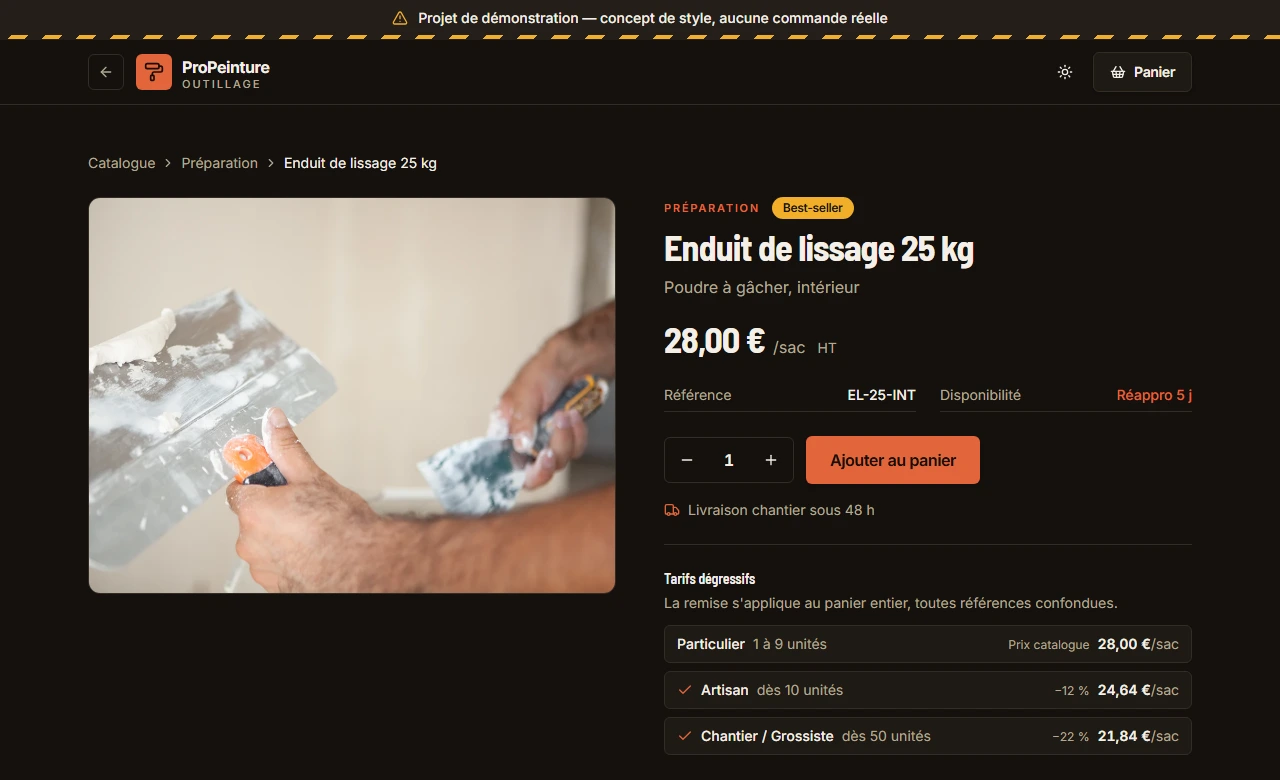
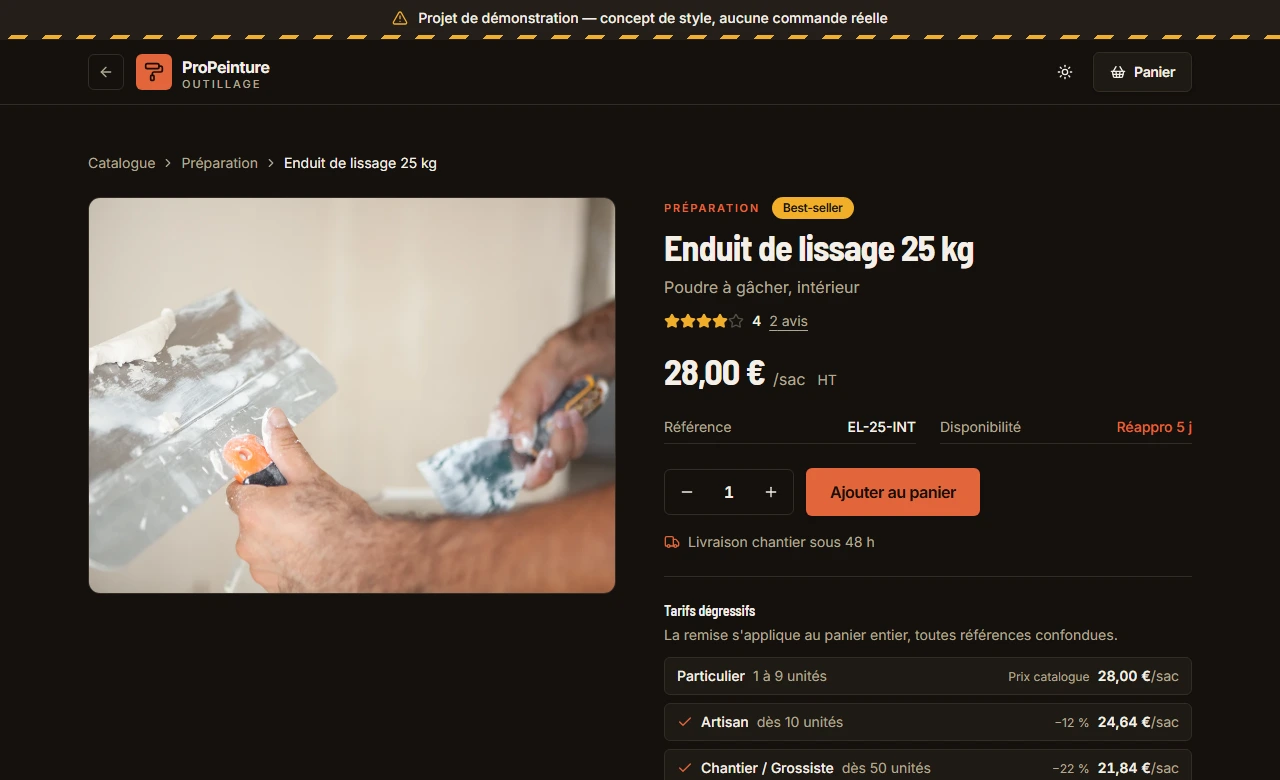
Ajoute des avis sur la fiche produit
Note moyenne sous le titre, renvoyant à une section en bas de page qui liste
les avis : auteur, métier, note, date et texte. Quatre des six références en
ont ; les deux autres affichent l'absence d'avis, cas qu'une vitrine réelle
rencontre en permanence.

Les avis sont fictifs comme le reste de la boutique, et la section le dit
explicitement plutôt que de s'appuyer sur le seul bandeau de démonstration :
un avis inventé se prend plus facilement au sérieux qu'un prix inventé.

La moyenne est calculée à partir des avis plutôt que saisie, donc elle ne peut
pas les contredire.

Côté accessibilité, les étoiles sont décoratives et la note portée par un texte
lisible — « 4,7 sur 5 » plutôt que cinq icônes énumérées. La première version
l'annonçait deux fois là où la valeur est déjà écrite à côté ; le composant
accepte désormais de museler ce texte.

diff --git a/src/data/avis.ts b/src/data/avis.ts
@@ -1,0 +1,124 @@
+/**
+ * Avis de démonstration. Ils sont inventés, comme le reste du catalogue et la
+ * société elle-même — la section qui les affiche le dit explicitement, pour
+ * qu'on ne les prenne pas pour de vrais retours clients.
+ */
+export type Avis = {
+  id: string
+  /** Identifiant du produit noté, voir `data/produits.ts`. */
+  produit: string
+  auteur: string
+  metier: string
+  /** De 1 à 5. */
+  note: number
+  /** Format ISO, affiché en toutes lettres. */
+  date: string
+  texte: string
+}
+
+export const avis: Avis[] = [
+  {
+    id: "av-1",
+    produit: "rouleau-laqueur-18",
+    auteur: "Karim B.",
+    metier: "Peintre, Lyon",
+    note: 5,
+    date: "2026-07-14",
+    texte:
+      "La fibre courte tient bien la laque, pas de peluche sur les portes. J'en prends dix à chaque commande, à ce prix-là je ne les lave même plus entre deux chantiers.",
+  },
+  {
+    id: "av-2",
+    produit: "rouleau-laqueur-18",
+    auteur: "Sylvie M.",
+    metier: "Artisan peintre, Nantes",
+    note: 4,
+    date: "2026-06-28",
+    texte:
+      "Bon rendu sur boiseries, rien à dire. Le manche plie un peu quand on appuie fort sur un plafond, mais pour du laquage c'est parfait.",
+  },
+  {
+    id: "av-3",
+    produit: "rouleau-laqueur-18",
+    auteur: "Thomas L.",
+    metier: "Entreprise de peinture, Rennes",
+    note: 5,
+    date: "2026-05-09",
+    texte:
+      "Commandé par cinquante pour l'équipe. Qualité constante d'un lot à l'autre, ce qui n'est pas le cas partout.",
+  },
+  {
+    id: "av-4",
+    produit: "pinceau-plat-40",
+    auteur: "Momo D.",
+    metier: "Peintre en bâtiment, Marseille",
+    note: 4,
+    date: "2026-07-02",
+    texte:
+      "Soie bien garnie, la coupe reste nette après une dizaine de chantiers. Il perd deux ou trois poils les premiers jours, ensuite plus rien.",
+  },
+  {
+    id: "av-5",
+    produit: "pinceau-plat-40",
+    auteur: "Élodie R.",
+    metier: "Décoratrice, Bordeaux",
+    note: 5,
+    date: "2026-04-21",
+    texte:
+      "Parfait pour les angles et les plinthes. Se nettoie facilement à l'eau tant qu'on ne le laisse pas sécher.",
+  },
+  {
+    id: "av-6",
+    produit: "enduit-lissage-25",
+    auteur: "Patrick V.",
+    metier: "Plaquiste, Toulouse",
+    note: 5,
+    date: "2026-06-11",
+    texte:
+      "Se gâche sans grumeaux et reste travaillable une bonne demi-heure. Ponçage minimal derrière, c'est ce que je demande à un enduit de lissage.",
+  },
+  {
+    id: "av-7",
+    produit: "enduit-lissage-25",
+    auteur: "Julien A.",
+    metier: "Artisan, Grenoble",
+    note: 3,
+    date: "2026-03-30",
+    texte:
+      "Le produit est bon mais les sacs arrivent parfois éventrés. À voir avec le transporteur, ce n'est pas la faute de l'enduit.",
+  },
+  {
+    id: "av-8",
+    produit: "ruban-masquage-50",
+    auteur: "Nadia K.",
+    metier: "Peintre, Lille",
+    note: 5,
+    date: "2026-07-19",
+    texte:
+      "Arêtes franches sur laque comme sur mat, et il se retire sans arracher, même après deux jours en place. Je ne reviens pas au ruban de grande surface.",
+  },
+  {
+    id: "av-9",
+    produit: "ruban-masquage-50",
+    auteur: "Cédric P.",
+    metier: "Entreprise générale, Rouen",
+    note: 4,
+    date: "2026-05-25",
+    texte:
+      "Bonne tenue sur support propre. Sur crépi il faut appuyer davantage, mais c'est vrai de tous les rubans.",
+  },
+]
+
+export function avisPour(produitId: string) {
+  return avis
+    .filter((a) => a.produit === produitId)
+    .sort((a, b) => b.date.localeCompare(a.date))
+}
+
+/** Moyenne arrondie au dixième, ou `null` quand il n'y a aucun avis. */
+export function noteMoyenne(produitId: string): number | null {
+  const liste = avisPour(produitId)
+  if (liste.length === 0) return null
+  const somme = liste.reduce((total, a) => total + a.note, 0)
+  return Math.round((somme / liste.length) * 10) / 10
+}

diff --git a/src/components/sections/AvisClients.tsx b/src/components/sections/AvisClients.tsx
@@ -1,0 +1,81 @@
+import { Info, MessageSquareOff } from "lucide-react"
+
+import { Etoiles } from "@/components/Etoiles"
+import { Separator } from "@/components/ui/separator"
+import { avisPour, noteMoyenne } from "@/data/avis"
+
+const dateLongue = new Intl.DateTimeFormat("fr-FR", {
+  day: "numeric",
+  month: "long",
+  year: "numeric",
+})
+
+export function AvisClients({ produitId }: { produitId: string }) {
+  const liste = avisPour(produitId)
+  const moyenne = noteMoyenne(produitId)
+
+  return (
+    <section className="mt-16" aria-labelledby="titre-avis">
+      <div className="flex flex-wrap items-baseline justify-between gap-3">
+        <h2 id="titre-avis" className="text-2xl font-bold tracking-tight">
+          Avis des professionnels
+        </h2>
+        {moyenne !== null && (
+          <p className="flex items-center gap-2 text-sm">
+            <Etoiles note={moyenne} muet />
+            <span className="font-semibold">
+              {moyenne.toLocaleString("fr-FR")} sur 5
+            </span>
+            <span className="text-muted-foreground">
+              · {liste.length} avis
+            </span>
+          </p>
+        )}
+      </div>
+
+      {/* Le bandeau de la page dit déjà que le site est une maquette ; on le
+          redit ici, parce qu'un avis inventé se prend plus facilement au
+          sérieux qu'un prix inventé. */}
+      <p className="mt-3 flex items-start gap-2 rounded-md border border-border bg-muted/50 px-3 py-2 text-sm text-muted-foreground">
+        <Info className="mt-0.5 size-4 shrink-0" aria-hidden="true" />
+        Avis fictifs, écrits pour la démonstration : ni ces clients ni cette
+        boutique n'existent.
+      </p>
+
+      {liste.length === 0 ? (
+        <p className="mt-6 flex items-center gap-2 rounded-lg border border-border bg-card px-5 py-8 text-sm text-muted-foreground">
+          <MessageSquareOff className="size-4 shrink-0" aria-hidden="true" />
+          Cette référence n'a pas encore d'avis.
+        </p>
+      ) : (
+        <ul className="mt-6 flex flex-col gap-4">
+          {liste.map((avis) => (
+            <li
+              key={avis.id}
+              className="rounded-lg border border-border bg-card p-5"
+            >
+              <div className="flex flex-wrap items-center justify-between gap-2">
+                <div>
+                  <p className="font-semibold">{avis.auteur}</p>
+                  <p className="text-sm text-muted-foreground">
+                    {avis.metier}
+                  </p>
+                </div>
+                <div className="text-right">
+                  <Etoiles note={avis.note} taille="petite" />
+                  <p className="mt-0.5 text-xs text-muted-foreground">
+                    <time dateTime={avis.date}>
+                      {dateLongue.format(new Date(avis.date))}
+                    </time>
+                  </p>
+                </div>
+              </div>
+              <Separator className="my-3" />
+              <p className="text-sm leading-relaxed">{avis.texte}</p>
+            </li>
+          ))}
+        </ul>
+      )}
+    </section>
+  )
+}

diff --git a/src/components/sections/PageProduit.tsx b/src/components/sections/PageProduit.tsx
@@ -6,6 +6,9 @@ import { Button } from "@/components/ui/button"
 import { Separator } from "@/components/ui/separator"
 import { EnTeteProduit } from "@/components/EnTeteProduit"
 import { SuggestionsProduits } from "@/components/SuggestionsProduits"
+import { AvisClients } from "@/components/sections/AvisClients"
+import { Etoiles } from "@/components/Etoiles"
+import { avisPour, noteMoyenne } from "@/data/avis"
 import { type Produit } from "@/data/produits"
 import { naviguer, urlCatalogue } from "@/lib/navigation"
 import { paliers, formatRemise } from "@/lib/tarifs"
@@ -15,6 +18,8 @@ import { usePanier } from "@/panier/PanierContext"
 export function PageProduit({ produit }: { produit: Produit }) {
   const { ajouter, definirQuantite, lignes } = usePanier()
   const [quantite, setQuantite] = React.useState(1)
+  const moyenne = noteMoyenne(produit.id)
+  const nombreAvis = avisPour(produit.id).length
 
   function ajouterAuPanier() {
     // `ajouter` incrémente d'une unité : on pose ensuite la quantité voulue,
@@ -58,6 +63,27 @@ export function PageProduit({ produit }: { produit: Produit }) {
             <p className="mt-2 text-base text-muted-foreground">
               {produit.detail}
             </p>
+
+            {moyenne !== null && (
+              <a
+                href="#titre-avis"
+                onClick={(e) => {
+                  e.preventDefault()
+                  document
+                    .getElementById("titre-avis")
+                    ?.scrollIntoView({ behavior: "smooth" })
+                }}
+                className="mt-3 flex w-max items-center gap-2 rounded-sm text-sm transition-colors hover:text-primary focus-visible:outline-none focus-visible:ring-2 focus-visible:ring-ring focus-visible:ring-offset-2"
+              >
+                <Etoiles note={moyenne} muet />
+                <span className="font-medium">
+                  {moyenne.toLocaleString("fr-FR")}
+                </span>
+                <span className="text-muted-foreground underline underline-offset-4">
+                  {nombreAvis} avis
+                </span>
+              </a>
+            )}
 
             <div className="mt-5 flex items-baseline gap-2">
               <span className="font-display text-4xl font-bold tracking-tight">
@@ -126,6 +152,8 @@ export function PageProduit({ produit }: { produit: Produit }) {
             <PrixParPalier prix={produit.prix} unite={produit.unite} />
           </div>
         </div>
+
+        <AvisClients produitId={produit.id} />
 
         <SuggestionsProduits titre="Dans le même chantier" exclure={produit.id} />
       </main>

diff --git a/src/components/Etoiles.tsx b/src/components/Etoiles.tsx
@@ -1,0 +1,45 @@
+import { Star } from "lucide-react"
+
+import { cn } from "@/lib/utils"
+
+/**
+ * Note en étoiles. Les étoiles sont décoratives — `aria-hidden` — et la valeur
+ * est portée par un texte lisible : un lecteur d'écran annonce « 4,5 sur 5 »
+ * plutôt que d'énumérer cinq icônes.
+ */
+export function Etoiles({
+  note,
+  taille = "normale",
+  muet = false,
+  className,
+}: {
+  note: number
+  taille?: "normale" | "petite"
+  /** À activer quand la note est déjà écrite en clair juste à côté : sans ça
+   *  un lecteur d'écran l'annonce deux fois. */
+  muet?: boolean
+  className?: string
+}) {
+  const dimension = taille === "petite" ? "size-3.5" : "size-4"
+
+  return (
+    <span className={cn("inline-flex items-center gap-0.5", className)}>
+      <span className="flex" aria-hidden="true">
+        {[1, 2, 3, 4, 5].map((rang) => (
+          <Star
+            key={rang}
+            className={cn(
+              dimension,
+              rang <= Math.round(note)
+                ? "fill-accent text-accent"
+                : "fill-transparent text-muted-foreground/40",
+            )}
+          />
+        ))}
+      </span>
+      {!muet && (
+        <span className="sr-only">{note.toLocaleString("fr-FR")} sur 5</span>
+      )}
+    </span>
+  )
+}

diff --git a/README.md b/README.md
@@ -23,7 +23,8 @@ porte sa photo en plein cadre, son état de stock, sa référence et son prix à
 ![Fiche produit : grande photo, prix, sélecteur de quantité et tableau du prix unitaire à chaque palier](docs/captures/06-produit.webp)
 
 La fiche produit, atteinte en cliquant une carte. Elle décline le prix unitaire
-à chaque palier, en euros plutôt qu'en pourcentage.
+à chaque palier, en euros plutôt qu'en pourcentage, et porte les avis en bas
+de page.
 
 ![Panneau panier ouvert : deux lignes avec photo et sélecteur de quantité, jauge vers le palier suivant, remise artisan appliquée au total](docs/captures/05-panier.webp)
 
@@ -103,6 +104,22 @@ l'affichage. L'état du panier est un `useReducer` exposé par
 Le panneau annonce en continu ce qui manque pour le palier suivant, et la
 section tarifs marque « Votre palier » sur celui qui s'applique. Le bouton
 « Commander » est volontairement désactivé : il n'y a ni back-end ni paiement.
+
+## Les avis
+
+Fictifs, comme la boutique et son catalogue — la section le dit explicitement,
+un avis inventé se prenant plus facilement au sérieux qu'un prix inventé. Ils
+vivent dans [`src/data/avis.ts`](src/data/avis.ts), avec la moyenne calculée à
+partir d'eux plutôt que saisie à la main.
+
+Quatre des six références en ont, les deux autres affichant l'absence d'avis :
+une vitrine réelle a toujours des fiches sans retour, autant que la maquette le
+montre.
+
+Les étoiles sont décoratives et la note est portée par un texte lisible — un
+lecteur d'écran annonce « 4,7 sur 5 » au lieu d'énumérer cinq icônes. Là où la
+valeur est déjà écrite à côté, ce texte est muselé pour ne pas être annoncé
+deux fois.
 
 ## Navigation
 
@@ -199,14 +216,17 @@ src/
   components/
     ui/               composants shadcn/ui + les 4 composants 21st adaptés
     sections/         BandeauDemo, Hero, GrilleProduits, TarifsDegressifs,
-                      BandeLivraison, Footer, PageProduit, ProduitIntrouvable,
+                      BandeLivraison, Footer, PageProduit, AvisClients,
+                      ProduitIntrouvable,
                       PanierPanneau —
                       de fines enveloppes qui alimentent les composants ui/
                       en contenu français
     Marque.tsx        le logo, partagé header / footer
     BasculeTheme.tsx  le bouton clair / sombre
+    Etoiles.tsx       la note en étoiles
     SuggestionsProduits.tsx  grille partagée fiche / introuvable
     EnTeteProduit.tsx en-tête sobre de la fiche produit
+  data/avis.ts        les avis fictifs et le calcul de la moyenne
   data/produits.ts    les 6 références du catalogue + les 4 catégories
   lib/navigation.ts   fiche produit, filtre et recherche dans l'URL
   lib/tarifs.ts       le barème dégressif, en fonctions pures
